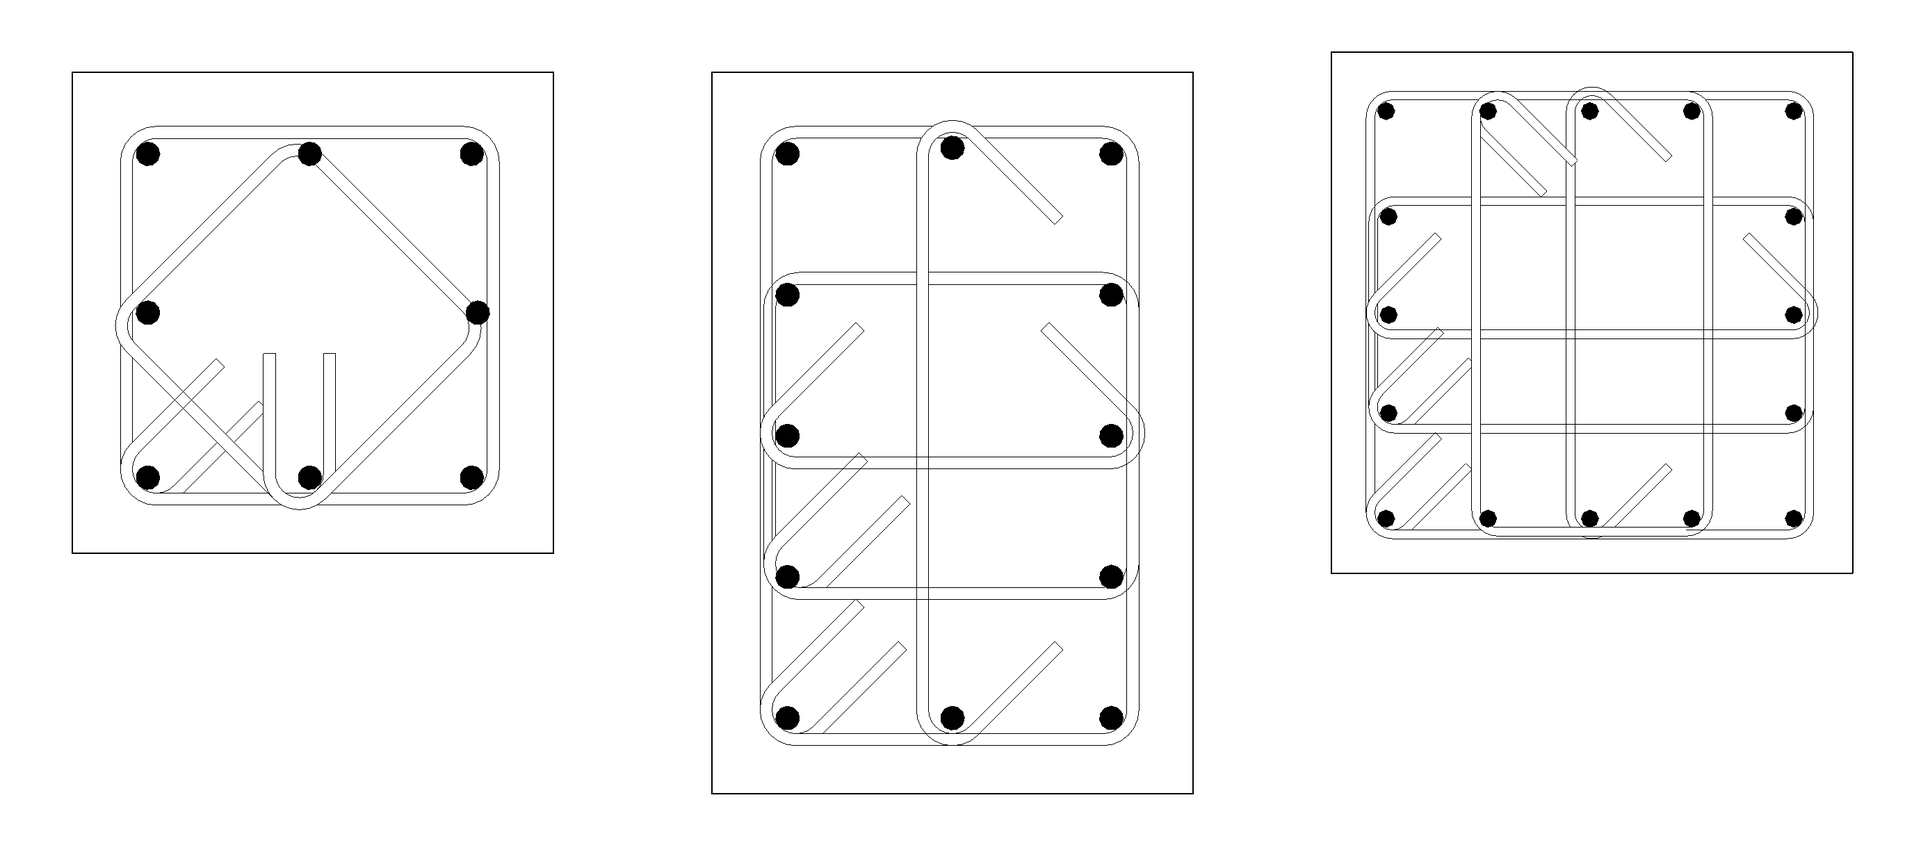
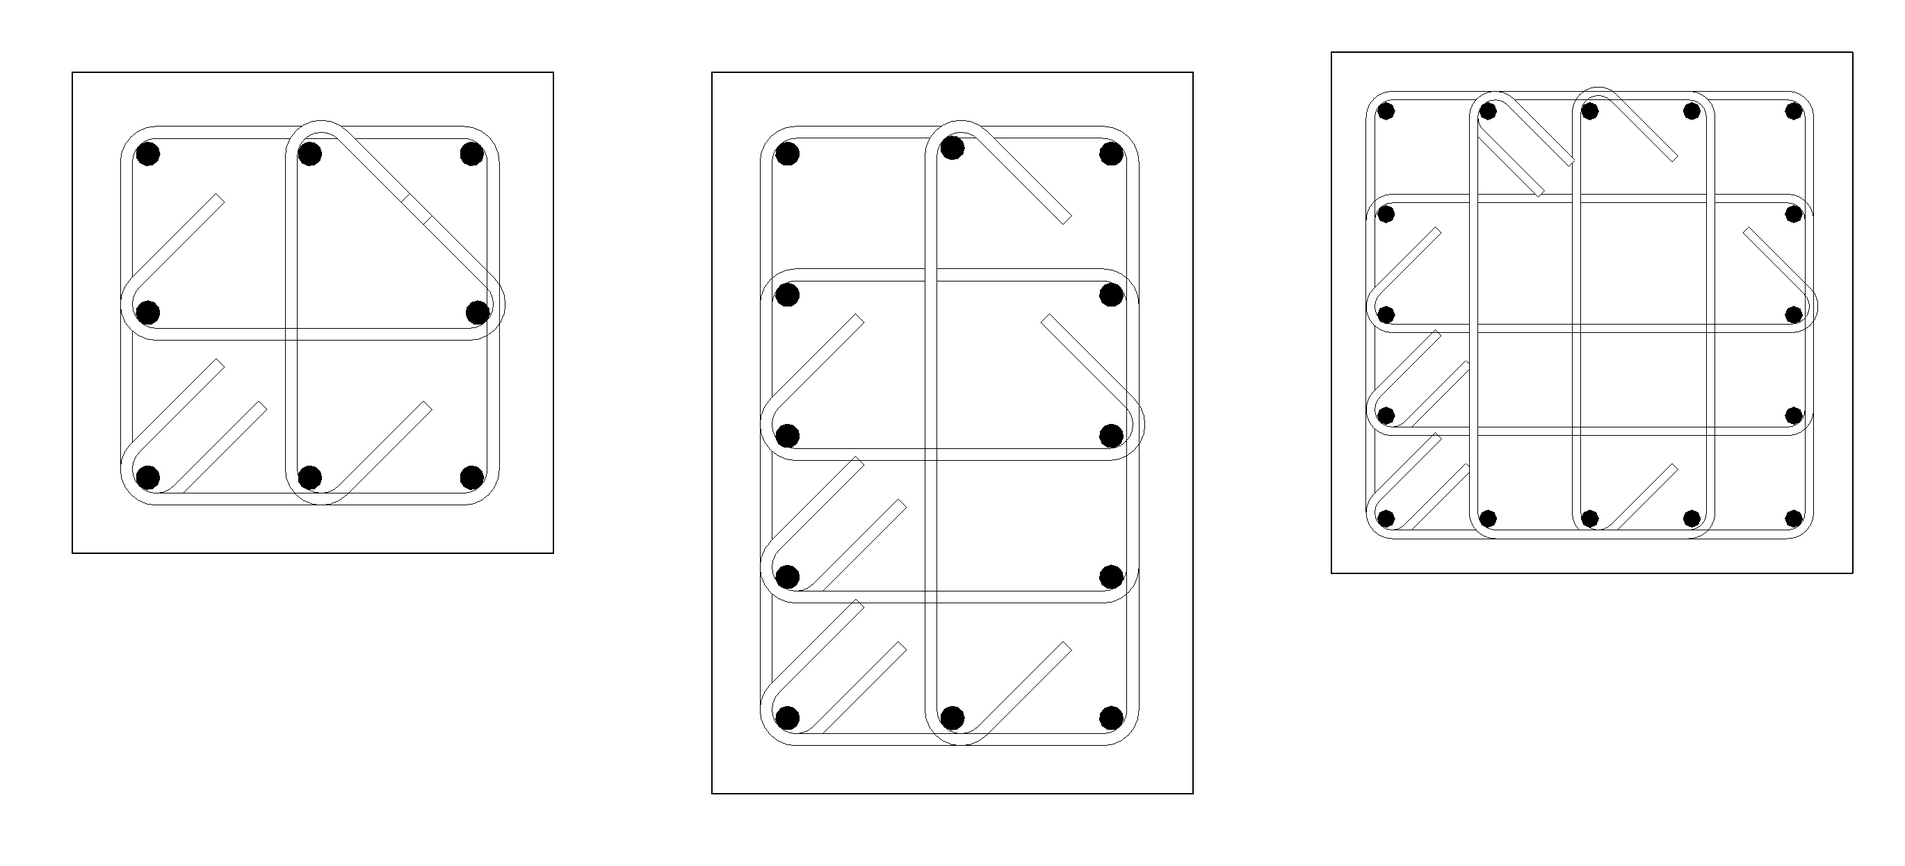
fix(RebarAutomate): interior ties modelled snug against the bars; crosstie shape named BS 8666 "99"
- every interior link / crosstie leg sits (bar + link) / 2 + the bend-seat extra from the bar it holds
  (same seat as the main links' corner bars): Revit's 25 mm bend no longer bites 3-5 mm into the bars
- crossties run D/2 past the bars; offset found by a live search so the single vertical bar Revit
  re-seats in the hook stays at its design position touching the tie
- one interior bar per side: two crossed crossties instead of a diamond (a diamond wrapping the
  mid-side bars crosses the main link band beyond the cover line; Revit squeezed and shifted it)
- rebar_engine.name_auto_shape: the shape Revit auto-creates for the crosstie ("Rebar Shape N") is
  named "99" (BS 8666 has no standard crosstie shape), so labels and schedules read 99
Verified live in Revit 2024: bars 13-18 mm from the tie centreline, verticals at design positions,
shape 99, hook tails 10d, 0 errors, 0 warnings.

diff --git a/NOSA.tab/Structures.panel/Quantities.pulldown/RebarAutomate.pushbutton/lib/column_rebar.py b/NOSA.tab/Structures.panel/Quantities.pulldown/RebarAutomate.pushbutton/lib/column_rebar.py
@@ -2024,21 +2024,21 @@ def interior_tie_layout(half_w_mm, half_d_mm, n_u, n_v, layout='all',
     restrain the intermediate (non-corner) vertical bars — 2026-10-02 redesign
     after the user's review: every tie wraps the bars from OUTSIDE.
 
-    - One interior bar per side on both axes: one closed diamond through the
-      four mid-side bars, its corners pushed out so each leg is tangent to the
-      bar; the polyline starts at the bottom vertex so the 135 deg closing
-      hooks turn into the core (verified live).
-    - Otherwise, per axis, interior bars are paired outermost-inwards
-      (1st with last, 2nd with last-but-one...) by closed rectangular links
-      whose legs pass outside each bar; an odd middle bar gets a straight
-      crosstie beside it whose 135 deg hooks wrap both opposite bars.
+    Per axis, interior bars are paired outermost-inwards (1st with last, 2nd
+    with last-but-one...) by closed rectangular links whose legs pass outside
+    each bar; an odd middle bar gets a straight crosstie beside it whose
+    135 deg hooks wrap both opposite bars (one interior bar per side: two
+    crossed crossties). No diamond: to wrap a mid-side bar from outside its
+    corner must cross the main link's band, beyond the cover line, and Revit
+    squeezes and shifts any Stirrup/Tie that does (measured live 2026-10-02).
 
-    The crosstie is offset from the bar by its hook's centreline bend radius
-    (D + d) / 2 and runs D/2 + d past the bar centre, which puts each
-    hook's bend centre on the bar axis: Revit snaps a single vertical bar to
-    the bend centre of a hook around it, so a crosstie drawn tangent to the
-    bar dragged the bar 10 mm sideways and 20 mm inwards (verified live,
-    Revit 2024, 2026-10-02).
+    Every leg is (bar + link) / 2 + the bend-seat extra from the bar it holds,
+    where Revit seats a bar in a link's bend; the crosstie also runs D/2 past
+    the bars so its hooks wrap them. Revit re-seats a single vertical bar in
+    the hook of a crosstie around it: with this offset the bar stays at its
+    design position touching the tie (searched live over offset x run,
+    Revit 2024, 2026-10-02); a tangent crosstie dragged it 10 mm sideways and
+    20 mm inwards.
 
     half_w_mm / half_d_mm are the vertical bar centre half-extents.
     layout='alternate' restrains every other interior bar.
@@ -2046,25 +2046,21 @@ def interior_tie_layout(half_w_mm, half_d_mm, n_u, n_v, layout='all',
     (Revit RebarBarType.StirrupTieBendDiameter); 4 d when unknown.
 
     Returns:
-        list of {'points': [(u, v), ...], 'closed': bool,
-                 'kind': 'diamond' | 'link' | 'crosstie'}
+        list of {'points': [(u, v), ...], 'closed': bool, 'kind': 'link' | 'crosstie'}
     """
     us = _edge_positions(-half_w_mm, half_w_mm, n_u)
     vs = _edge_positions(-half_d_mm, half_d_mm, n_v)
     us_interior = us[1:-1] if n_u > 2 else []
     vs_interior = vs[1:-1] if n_v > 2 else []
-    r = (bar_diameter_mm + link_diameter_mm) / 2.0
-    bend = link_bend_diameter_mm or 4.0 * link_diameter_mm
-    hook_r = (bend + link_diameter_mm) / 2.0        # crosstie line to bar axis
-    hook_run = bend / 2.0 + link_diameter_mm        # line end past the bar axis
-
-    if len(us_interior) <= 1 and len(vs_interior) <= 1 and (us_interior or vs_interior):
-        u0 = us_interior[0] if us_interior else 0.0
-        v0 = vs_interior[0] if vs_interior else 0.0
-        k = r * math.sqrt(2.0)
-        return [{'points': [(u0, -half_d_mm - k), (-half_w_mm - k, v0),
-                            (u0, half_d_mm + k), (half_w_mm + k, v0)],
-                 'closed': True, 'kind': 'diamond'}]
+    # Every leg sits where Revit seats a bar in a link's bend: touching the leg ((bar + link) / 2)
+    # plus the bend-seat extra of rebar_engine.link_corner_extra_inset_mm (2.9 mm for H20 in an
+    # H10 link on a 40 mm mandrel) — the main links already use it. Tangent legs (no extra) made
+    # Revit's 25 mm bend radius bite 3-5 mm into the bars (measured live, Revit 2024, 2026-10-02).
+    bend_r = (link_bend_diameter_mm or 4.0 * link_diameter_mm) / 2.0
+    bar_r = bar_diameter_mm / 2.0
+    extra = bend_r - (bend_r - bar_r) / math.sqrt(2.0) - bar_r if bend_r > bar_r else 0.0
+    r = (bar_diameter_mm + link_diameter_mm) / 2.0 + extra
+    hook_run = bend_r        # crosstie end past the bar axis, so its hook wraps the bar
 
     if layout == 'alternate':
         us_interior = us_interior[0::2]
@@ -2077,7 +2073,7 @@ def interior_tie_layout(half_w_mm, half_d_mm, n_u, n_v, layout='all',
                                   (b, -half_d_mm - r), (a, -half_d_mm - r)],
                        'closed': True, 'kind': 'link'})
     if len(us_interior) % 2:
-        m = us_interior[len(us_interior) // 2] - hook_r
+        m = us_interior[len(us_interior) // 2] - r
         shapes.append({'points': [(m, half_d_mm + hook_run), (m, -half_d_mm - hook_run)],
                        'closed': False, 'kind': 'crosstie'})
     for i in range(len(vs_interior) // 2):
@@ -2086,7 +2082,7 @@ def interior_tie_layout(half_w_mm, half_d_mm, n_u, n_v, layout='all',
                                   (half_w_mm + r, b), (-half_w_mm - r, b)],
                        'closed': True, 'kind': 'link'})
     if len(vs_interior) % 2:
-        m = vs_interior[len(vs_interior) // 2] - hook_r
+        m = vs_interior[len(vs_interior) // 2] - r
         shapes.append({'points': [(-half_w_mm - hook_run, m), (half_w_mm + hook_run, m)],
                        'closed': False, 'kind': 'crosstie'})
     return shapes

diff --git a/NOSA.tab/Structures.panel/Quantities.pulldown/RebarAutomate.pushbutton/tests/test_phase358_fixes.py b/NOSA.tab/Structures.panel/Quantities.pulldown/RebarAutomate.pushbutton/tests/test_phase358_fixes.py
@@ -206,26 +206,17 @@ zones = [
     {'start_mm': 3000.0, 'end_mm': 6000.0, 'spacing_mm': 200.0},
 ]
 
-# n_u = n_v = 3 -> exactly ONE interior position per axis (the "8 bars
-# total, one extra per long edge" example the user gave) -> must
-# collapse into one closed interior stirrup loop PER ZONE, not
-# individual crossing crossties.
+# n_u = n_v = 3 -> ONE interior bar per side (8 bars): two crossed crossties per zone, one per
+# axis (2026-10-02: a diamond cannot wrap the mid-side bars inside Revit's cover line, so Revit
+# squeezed and shifted it into the bars).
 result = column_rebar.build_crosstie_sets(axis, u_dir, v_dir, 150.0, 100.0, 3, 3, zones, layout='all')
-assert result['crosstie_bars'] == [], "the diamond (1 interior per axis) case must not emit individual crossties"
-assert len(result['interior_stirrup_sets']) == len(zones), (
-    "expected one interior stirrup Set per zone ({}), got {}".format(
-        len(zones), len(result['interior_stirrup_sets'])))
-for iss in result['interior_stirrup_sets']:
-    assert len(iss['curves']) == 4, "interior loop must be a closed 4-segment shape"
-    assert iss['style'] == 'StirrupTie'
-    # closed: each curve's end must meet the next curve's start
-    for i in range(4):
-        c0, c1 = iss['curves'][i], iss['curves'][(i + 1) % 4]
-        p_end, p_next_start = c0.GetEndPoint(1), c1.GetEndPoint(0)
-        assert p_end.DistanceTo(p_next_start) < 1e-9, "interior loop is not actually closed"
-print("build_crosstie_sets: the 'diamond' case (1 interior bar per axis) collapses "
-      "into ONE closed 4-segment interior stirrup loop per zone (StirrupTie, "
-      "Set-propagated) instead of individual crossing crossties: OK")
+assert result['crosstie_bars'] == []
+sets = result['interior_stirrup_sets']
+assert len(sets) == 2 * len(zones), len(sets)
+for iss in sets:
+    assert iss['layer'] == 'crosstie' and iss['style'] == 'StirrupTie' and len(iss['curves']) == 1
+print("build_crosstie_sets: one interior bar per side -> two crossed 135/135 crossties per zone "
+      "(StirrupTie Sets), no diamond: OK")
 
 # n_u = 5 (2 interior positions on u), n_v = 2 (0 on v) -> must NOT
 # collapse (an axis has more than 1 interior position) -- unchanged
@@ -238,9 +229,11 @@ assert sorted(s['layer'] for s in result2['interior_stirrup_sets']) == [
 print("build_crosstie_sets: 3 interior bars on one axis -> one interior link (outer pair) "
       "+ one crosstie (middle bar) per zone: OK")
 
-# Every tie passes OUTSIDE the bars it restrains: tangent to the bar, (bar + link) / 2 from
-# its centre (user review 2026-10-02: ties were drawn through / inside the bars).
+# Every tie passes OUTSIDE the bars it restrains, seated like a corner bar in a main link
+# (user review 2026-10-02: ties were drawn through / inside the bars, then 3-5 mm into them).
 import math as _m
+
+SEATED = 15.0 + (20.0 - (20.0 - 10.0) / _m.sqrt(2.0) - 10.0)
 
 
 def _seg_dist(p, a, b):
@@ -264,18 +257,17 @@ for n_u, n_v in ((5, 2), (5, 3), (5, 5), (4, 6), (3, 3)):
             for i in range(segs):
                 d = _seg_dist(bar, pts[i], pts[(i + 1) % len(pts)])
                 best[sh['kind']] = min(best.get(sh['kind'], 1e9), d)
-        on_link = min(best.get('link', 1e9), best.get('diamond', 1e9))
-        # links/diamond tangent to the bar at (20 + 10) / 2; a crosstie runs at its hook's
-        # centreline bend radius (40 + 10) / 2 so the bend centre sits on the bar axis
-        assert abs(on_link - 15.0) < 0.5 or abs(best.get('crosstie', 1e9) - 25.0) < 0.5, (n_u, n_v, bar, best)
-print("interior_tie_layout: every interior bar is wrapped from outside — links 15 mm, crossties "
-      "25 mm (hook bend centre on the bar) from the tie centreline, for 5x2, 5x3, 5x5, 4x6 and 3x3: OK")
+        # every tie leg is (20 + 10) / 2 + the bend-seat extra (2.93 mm: H20 in an H10 link on a
+        # 40 mm mandrel, rebar_engine.link_corner_extra_inset_mm) from the bar it holds
+        assert abs(min(best.values()) - SEATED) < 0.05, (n_u, n_v, bar, best)
+print("interior_tie_layout: every interior bar is held from outside, seated like a main-link corner "
+      "bar ({:.2f} mm to the tie centreline), for 5x2, 5x3, 5x5, 4x6 and 3x3: OK".format(SEATED))
 
-# A crosstie runs D/2 + d past each bar so its hook's bend centre lands on the bar axis.
+# A crosstie runs D/2 past each bar so its 135 deg hooks wrap the bars it ties.
 ct = [s for s in column_rebar.interior_tie_layout(250.0, 250.0, 3, 4, 'all', 20.0, 10.0, 40.0)
       if s['kind'] == 'crosstie'][0]
 (u0, v0), (u1, v1) = ct['points']
-assert abs(u0 - (0.0 - 25.0)) < 1e-6 and abs(v0 - (250.0 + 30.0)) < 1e-6 and abs(v1 + 280.0) < 1e-6, ct
-print("interior_tie_layout: crosstie offset by the bend radius and run past the bars: OK")
+assert abs(u0 + SEATED) < 1e-6 and abs(v0 - 270.0) < 1e-6 and abs(v1 + 270.0) < 1e-6, ct
+print("interior_tie_layout: crosstie seated beside the bar and run D/2 past it: OK")
 
 print("\nALL PHASE 3.5.8 TARGETED CHECKS PASSED")

diff --git a/NOSA.tab/Structures.panel/Quantities.pulldown/RebarAutomate.pushbutton/lib/rebar_preview.py b/NOSA.tab/Structures.panel/Quantities.pulldown/RebarAutomate.pushbutton/lib/rebar_preview.py
@@ -369,9 +369,9 @@ def _crosstie_lines_preview(half_w_mm, half_d_mm, n_u, n_v, layout='all',
                             bar_diameter_mm=20.0, link_diameter_mm=10.0):
     """
     Plan segments of the interior links and crossties — pure-Python mirror of
-    column_rebar.interior_tie_layout (diamond for one interior bar per side,
-    otherwise links pairing interior bars outermost-inwards plus a crosstie for
-    an odd middle bar), every tie passing OUTSIDE the bars it restrains.
+    column_rebar.interior_tie_layout (per axis, links pairing interior bars
+    outermost-inwards plus a crosstie for an odd middle bar), every tie seated
+    OUTSIDE the bars it restrains.
 
     Returns:
         list[(x1_mm, y1_mm, x2_mm, y2_mm)]
@@ -386,18 +386,13 @@ def _crosstie_lines_preview(half_w_mm, half_d_mm, n_u, n_v, layout='all',
     vs = _edge(-half_d_mm, half_d_mm, n_v)
     us_interior = us[1:-1] if n_u > 2 else []
     vs_interior = vs[1:-1] if n_v > 2 else []
-    r = (bar_diameter_mm + link_diameter_mm) / 2.0
-    hook_r = (4.0 * link_diameter_mm + link_diameter_mm) / 2.0   # bend centre on the bar axis
-    hook_run = 2.0 * link_diameter_mm + link_diameter_mm
+    bend_r, bar_r = 2.0 * link_diameter_mm, bar_diameter_mm / 2.0   # 4d mandrel
+    extra = bend_r - (bend_r - bar_r) / math.sqrt(2.0) - bar_r if bend_r > bar_r else 0.0
+    r = (bar_diameter_mm + link_diameter_mm) / 2.0 + extra          # bar seated in the bend
+    hook_run = bend_r
 
     def _ring(points):
         return [points[i] + points[(i + 1) % len(points)] for i in range(len(points))]
-
-    if len(us_interior) <= 1 and len(vs_interior) <= 1 and (us_interior or vs_interior):
-        u0 = us_interior[0] if us_interior else 0.0
-        v0 = vs_interior[0] if vs_interior else 0.0
-        k = r * math.sqrt(2.0)
-        return _ring([(u0, -half_d_mm - k), (-half_w_mm - k, v0), (u0, half_d_mm + k), (half_w_mm + k, v0)])
 
     if layout == 'alternate':
         us_interior = us_interior[0::2]
@@ -408,13 +403,13 @@ def _crosstie_lines_preview(half_w_mm, half_d_mm, n_u, n_v, layout='all',
         a, b = us_interior[i] - r, us_interior[-1 - i] + r
         lines += _ring([(a, half_d_mm + r), (b, half_d_mm + r), (b, -half_d_mm - r), (a, -half_d_mm - r)])
     if len(us_interior) % 2:
-        m = us_interior[len(us_interior) // 2] - hook_r
+        m = us_interior[len(us_interior) // 2] - r
         lines.append((m, half_d_mm + hook_run, m, -half_d_mm - hook_run))
     for i in range(len(vs_interior) // 2):
         a, b = vs_interior[i] - r, vs_interior[-1 - i] + r
         lines += _ring([(-half_w_mm - r, a), (half_w_mm + r, a), (half_w_mm + r, b), (-half_w_mm - r, b)])
     if len(vs_interior) % 2:
-        m = vs_interior[len(vs_interior) // 2] - hook_r
+        m = vs_interior[len(vs_interior) // 2] - r
         lines.append((-half_w_mm - hook_run, m, half_w_mm + hook_run, m))
     return lines
 

diff --git a/NOSA.tab/Structures.panel/Quantities.pulldown/RebarAutomate.pushbutton/tests/test_preview_shapes.py b/NOSA.tab/Structures.panel/Quantities.pulldown/RebarAutomate.pushbutton/tests/test_preview_shapes.py
@@ -53,19 +53,20 @@ for dot, (x, y) in zip(hollow, positions):
     assert abs(dot['x']) < abs(x) and abs(dot['y']) < abs(y), 'starter lapped on the inner side'
 print('column_section_shapes: starters lapped on the inner side of each vertical: OK')
 
-# Column section: crossties from the preview data are drawn as links (12 bars: straight ties;
-# 8 bars on a square column: one interior diamond loop, as column_rebar.build_crosstie_sets builds it).
+# Column section: interior links and crossties from the preview data are drawn as links
+# (12 bars: a link + crossties; 8 bars on a square column: two crossed crossties).
 import rebar_preview  # noqa: E402
-for depth, count, loop_segments in ((600, 12, None), (400, 8, 4)):
+for depth, count, crossed in ((600, 12, False), (400, 8, True)):
     data = rebar_preview.compute_column_section_preview(400, depth, 40, 20, count, 10,
                                                         include_crossties=True)
     ties = [(t['x1_mm'], t['y1_mm'], t['x2_mm'], t['y2_mm']) for t in data['crossties']]
-    assert ties, 'expected crossties for {} bars'.format(count)
-    if loop_segments:
-        assert len(ties) == loop_segments, 'single interior bar per side -> closed diamond loop'
-        assert all(abs(t[0] - t[2]) > 1 and abs(t[1] - t[3]) > 1 for t in ties), 'diamond sides are diagonal'
+    assert ties, 'expected interior ties for {} bars'.format(count)
+    if crossed:
+        assert len(ties) == 2, 'one interior bar per side -> two crossed crossties'
+        assert sorted((abs(t[0] - t[2]) < 1e-6, abs(t[1] - t[3]) < 1e-6) for t in ties) == \
+            [(False, True), (True, False)], 'one crosstie per axis'
     plan = shapes.column_section_shapes(400, depth, 40, 20, [(b['x_mm'], b['y_mm']) for b in data['bars']],
                                         10, crossties=ties)
-    assert len(_bars(plan, 'link')) == 1 + len(ties), 'crossties must reach the drawing'
-print('column_section_shapes: crossties drawn (straight ties and 8-bar diamond loop): OK')
+    assert len(_bars(plan, 'link')) == 1 + len(ties), 'interior ties must reach the drawing'
+print('column_section_shapes: interior links / crossties drawn (12 bars; 8 bars: two crossed crossties): OK')
 print('\nALL PREVIEW SHAPES CHECKS PASSED')

diff --git a/NOSA.tab/Structures.panel/Quantities.pulldown/RebarAutomate.pushbutton/lib/rebar_engine.py b/NOSA.tab/Structures.panel/Quantities.pulldown/RebarAutomate.pushbutton/lib/rebar_engine.py
@@ -906,6 +906,27 @@ def starter_foot_z(doc, foundation, own_bbox, cover_mm, bar_dia_mm, mat_dias_mm=
     return own_bbox.Min.Z + (cover_mm + 2.0 * bar_dia_mm) / _MM_PER_FT, 'assumed'
 
 
+def name_auto_shape(doc, rebar, code=u'99'):
+    """
+    Give the RebarShape Revit auto-created for this bar (named "Rebar Shape N")
+    the BS 8666 code `code`, so labels and schedules read the code. Template
+    shapes (numeric names) are never renamed, nor is anything when a shape
+    called `code` already exists. Call inside a transaction; returns the name
+    the bar's shape ends up with.
+    """
+    shape = doc.GetElement(rebar.GetShapeId())
+    if shape is None:
+        return None
+    name = DB.Element.Name.GetValue(shape)
+    if not name or name.strip().isdigit():
+        return name
+    for other in DB.FilteredElementCollector(doc).OfClass(DBS.RebarShape):
+        if DB.Element.Name.GetValue(other) == code:
+            return name
+    DB.Element.Name.SetValue(shape, code)
+    return code
+
+
 def link_corner_extra_inset_mm(bar_dia_mm, link_dia_mm, link_bend_dia_mm=None):
     """
     Extra inset (mm) of a corner bar nested in its link's bend, beyond

diff --git a/NOSA.tab/Structures.panel/Quantities.pulldown/RebarAutomate.pushbutton/lib/ui.py b/NOSA.tab/Structures.panel/Quantities.pulldown/RebarAutomate.pushbutton/lib/ui.py
@@ -2757,6 +2757,16 @@ class RebarAutomateWindow(NOSAWindow):
                     if wrapper.last_error:
                         errors.append(u'Column {}: {} (set) — {}'.format(
                             get_id_value(host.Id), label, wrapper.last_error))
+                    if layer == u'crosstie':
+                        # BS 8666 has no standard crosstie shape: code 99 (Revit had named it "Rebar Shape N")
+                        try:
+                            with DB.Transaction(self.doc, u'NOSA — Name Crosstie Shape') as t:
+                                t.Start()
+                                re_engine.name_auto_shape(self.doc, rebar, u'99')
+                                t.Commit()
+                        except Exception as e:
+                            errors.append(u'Column {}: crosstie shape left unnamed ({}).'.format(
+                                get_id_value(host.Id), e))
 
         if values.get('foundation_starters') and bar_type_vert is not None and \
                 re_engine.nosa_bars_in_footprint(self.doc, host, (u'dowel', u'foundation_starter')):

diff --git a/MASTER_ROADMAP.md b/MASTER_ROADMAP.md
@@ -145,6 +145,7 @@ Sin esto, cualquier sesión nueva en worktree parte de `main`, que no tiene los 
 | [x] | T6.4 | Rediseñar en vectorial (`icon.svg` maestro + `icon.png` 96×96 + `icon.dark.png`) los 51 iconos sin fuente, con la identidad NOSA (#FF5F00). Enseñar propuestas al usuario antes de sustituir | ✔ | – | ✔ | 2026-10-01: quedan 30 (el resto ya se hizo). 29 propuestas aprobadas por el usuario el 2026-10-02 y aplicadas (`icon.svg`, `icon.dark.svg`, `icon.png`, `icon.dark.png` 96×96 transparentes, render con Edge headless); NOSA Dashboard: marca hexagonal vectorizada del logo oficial que aportó el usuario (#F26122). NOSA204 = 0; auditoría: 0 iconos fuera del estándar |
 | [x] | T6.5 | Mejoras de código opcionales + tests para los 30 plugins sin cobertura | ✔ | – | – | 2026-10-02: SheetExportHub (3 diálogos → `NOSAWindow`, único lint grave), NOSA106 → 0 (41 `SelectionChanged`/`SelectedIndex` pasados al código en 13 ventanas), NOSA005 → 0, NOSA006 528 → 67 (593 `except: pass` registrados con `log_swallowed`; quedan infraestructura de log/tema, cargadores de `script.py` y tests). Tests: `tests/test_plugin_contracts.py` (37 plugins: XAML, 711 manejadores, 627 controles, `sys.path`) + `tests/test_plugin_logic.py` (55 tests de lógica) sobre stubs permisivos (`tests_support.revit_stubs.permissive_imports`). Auditoría: **37/37 OK**. Fallos reales hallados y corregidos: 4 CSV en modo `'wb'`, 7 `script.py` importaban `nosa_utils` antes de poner `lib/` en `sys.path`, `bootstrap.load_module` ocultaba el error real, StructuralQA cargaba reglas de `TemplateGuard.nobutton` (retirado), transacción en español en `pilecap_utils`, crossties no dibujados en la vista previa de pilares. Verificado en Revit 2024 (Project1): `ui_smoke.py` construye las 12 ventanas con conexiones movidas, los 3 diálogos de SheetExportHub, los 3 hubs y WaffleSlab sin errores ni avisos. `crosstie_check.cs` destapó que **los crossties rectos de pilar nunca se creaban** (barra Standard con patilla Stirrup/Tie → «internal error»): corregido (`get_hook_type_by_angle` filtra por estilo; crossties StirrupTie) → 400×600/12 barras: 64 crossties, 600×600/16: 96, 0 errores, 0 avisos |
 | [x] | T6.6 | RebarAutomate: atado interior de pilares rediseñado tras la revisión del usuario | – | – | ✔ | 2026-10-02: los crossties iban por dentro de las barras y como barras sueltas. Ahora `column_rebar.interior_tie_layout`: rombo si hay 1 barra intermedia por cara; si no, cercos interiores que emparejan las barras intermedias de fuera hacia dentro + crosstie 135°/135° para la central impar; todo por fuera de las barras y como Sets con el reparto de los cercos (un Ø de cerco por encima). Crosstie desplazado el radio de doblado para que Revit no arrastre la barra suelta; los atados se crean después de fijar las verticales. Verificado en Revit 2024: 0 errores, 0 avisos, verticales en su sitio; 600×600 de 11 s a 3 s. Imagen: `docs/column_interior_ties.png` |
+| [x] | T6.7 | Atado interior de pilares: precisión de modelado y código de forma | – | – | ✔ | 2026-10-02, tras revisión del usuario: cada pata a (φb+φc)/2 + asiento en el doblado (`link_corner_extra_inset_mm`, como los cercos principales) → barras en contacto (13–18 mm) y en su sitio; crosstie prolongado D/2 para que la patilla abrace la barra (búsqueda en vivo de desplazamiento × prolongación). Rombo sustituido por dos crossties cruzados: un rombo que abrace por fuera las barras centrales cruza la banda del cerco principal y Revit lo comprime y desplaza. La forma que Revit crea para el crosstie se renombra «99» (BS 8666: sin forma estándar) en vez de «Rebar Shape 1»; colas de patilla 10φ. 0 errores, 0 avisos |
 
 ---
 
